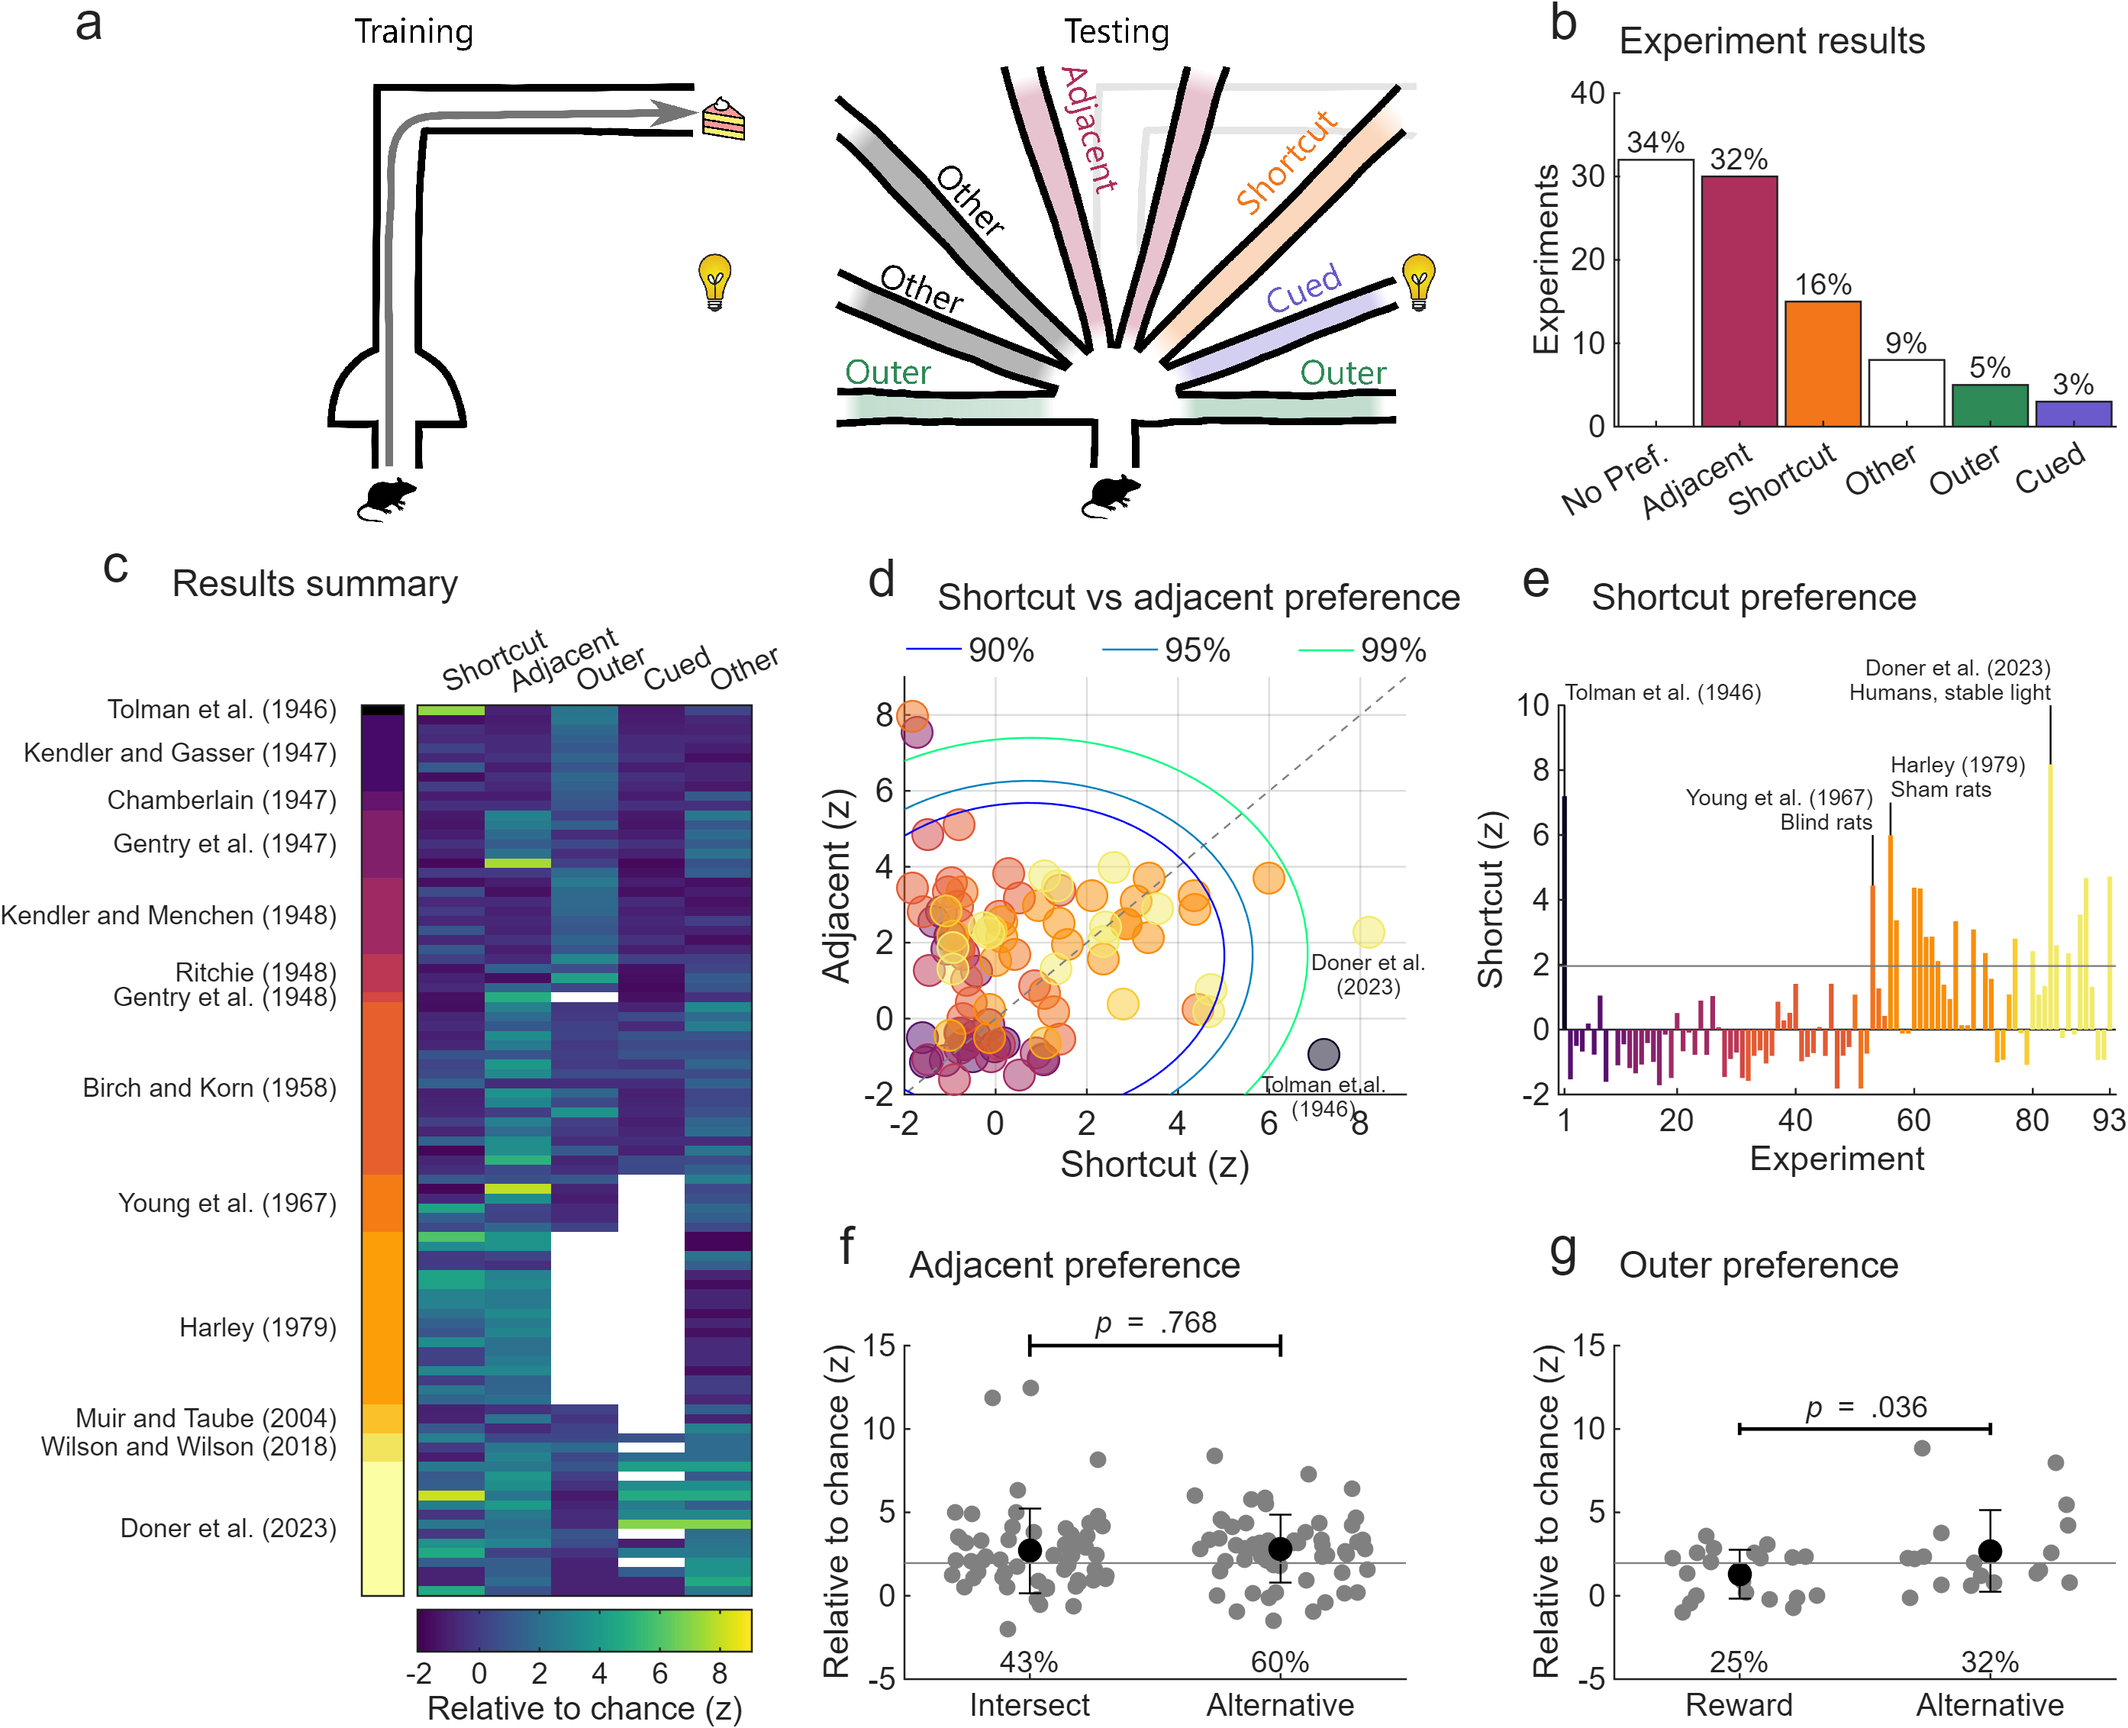
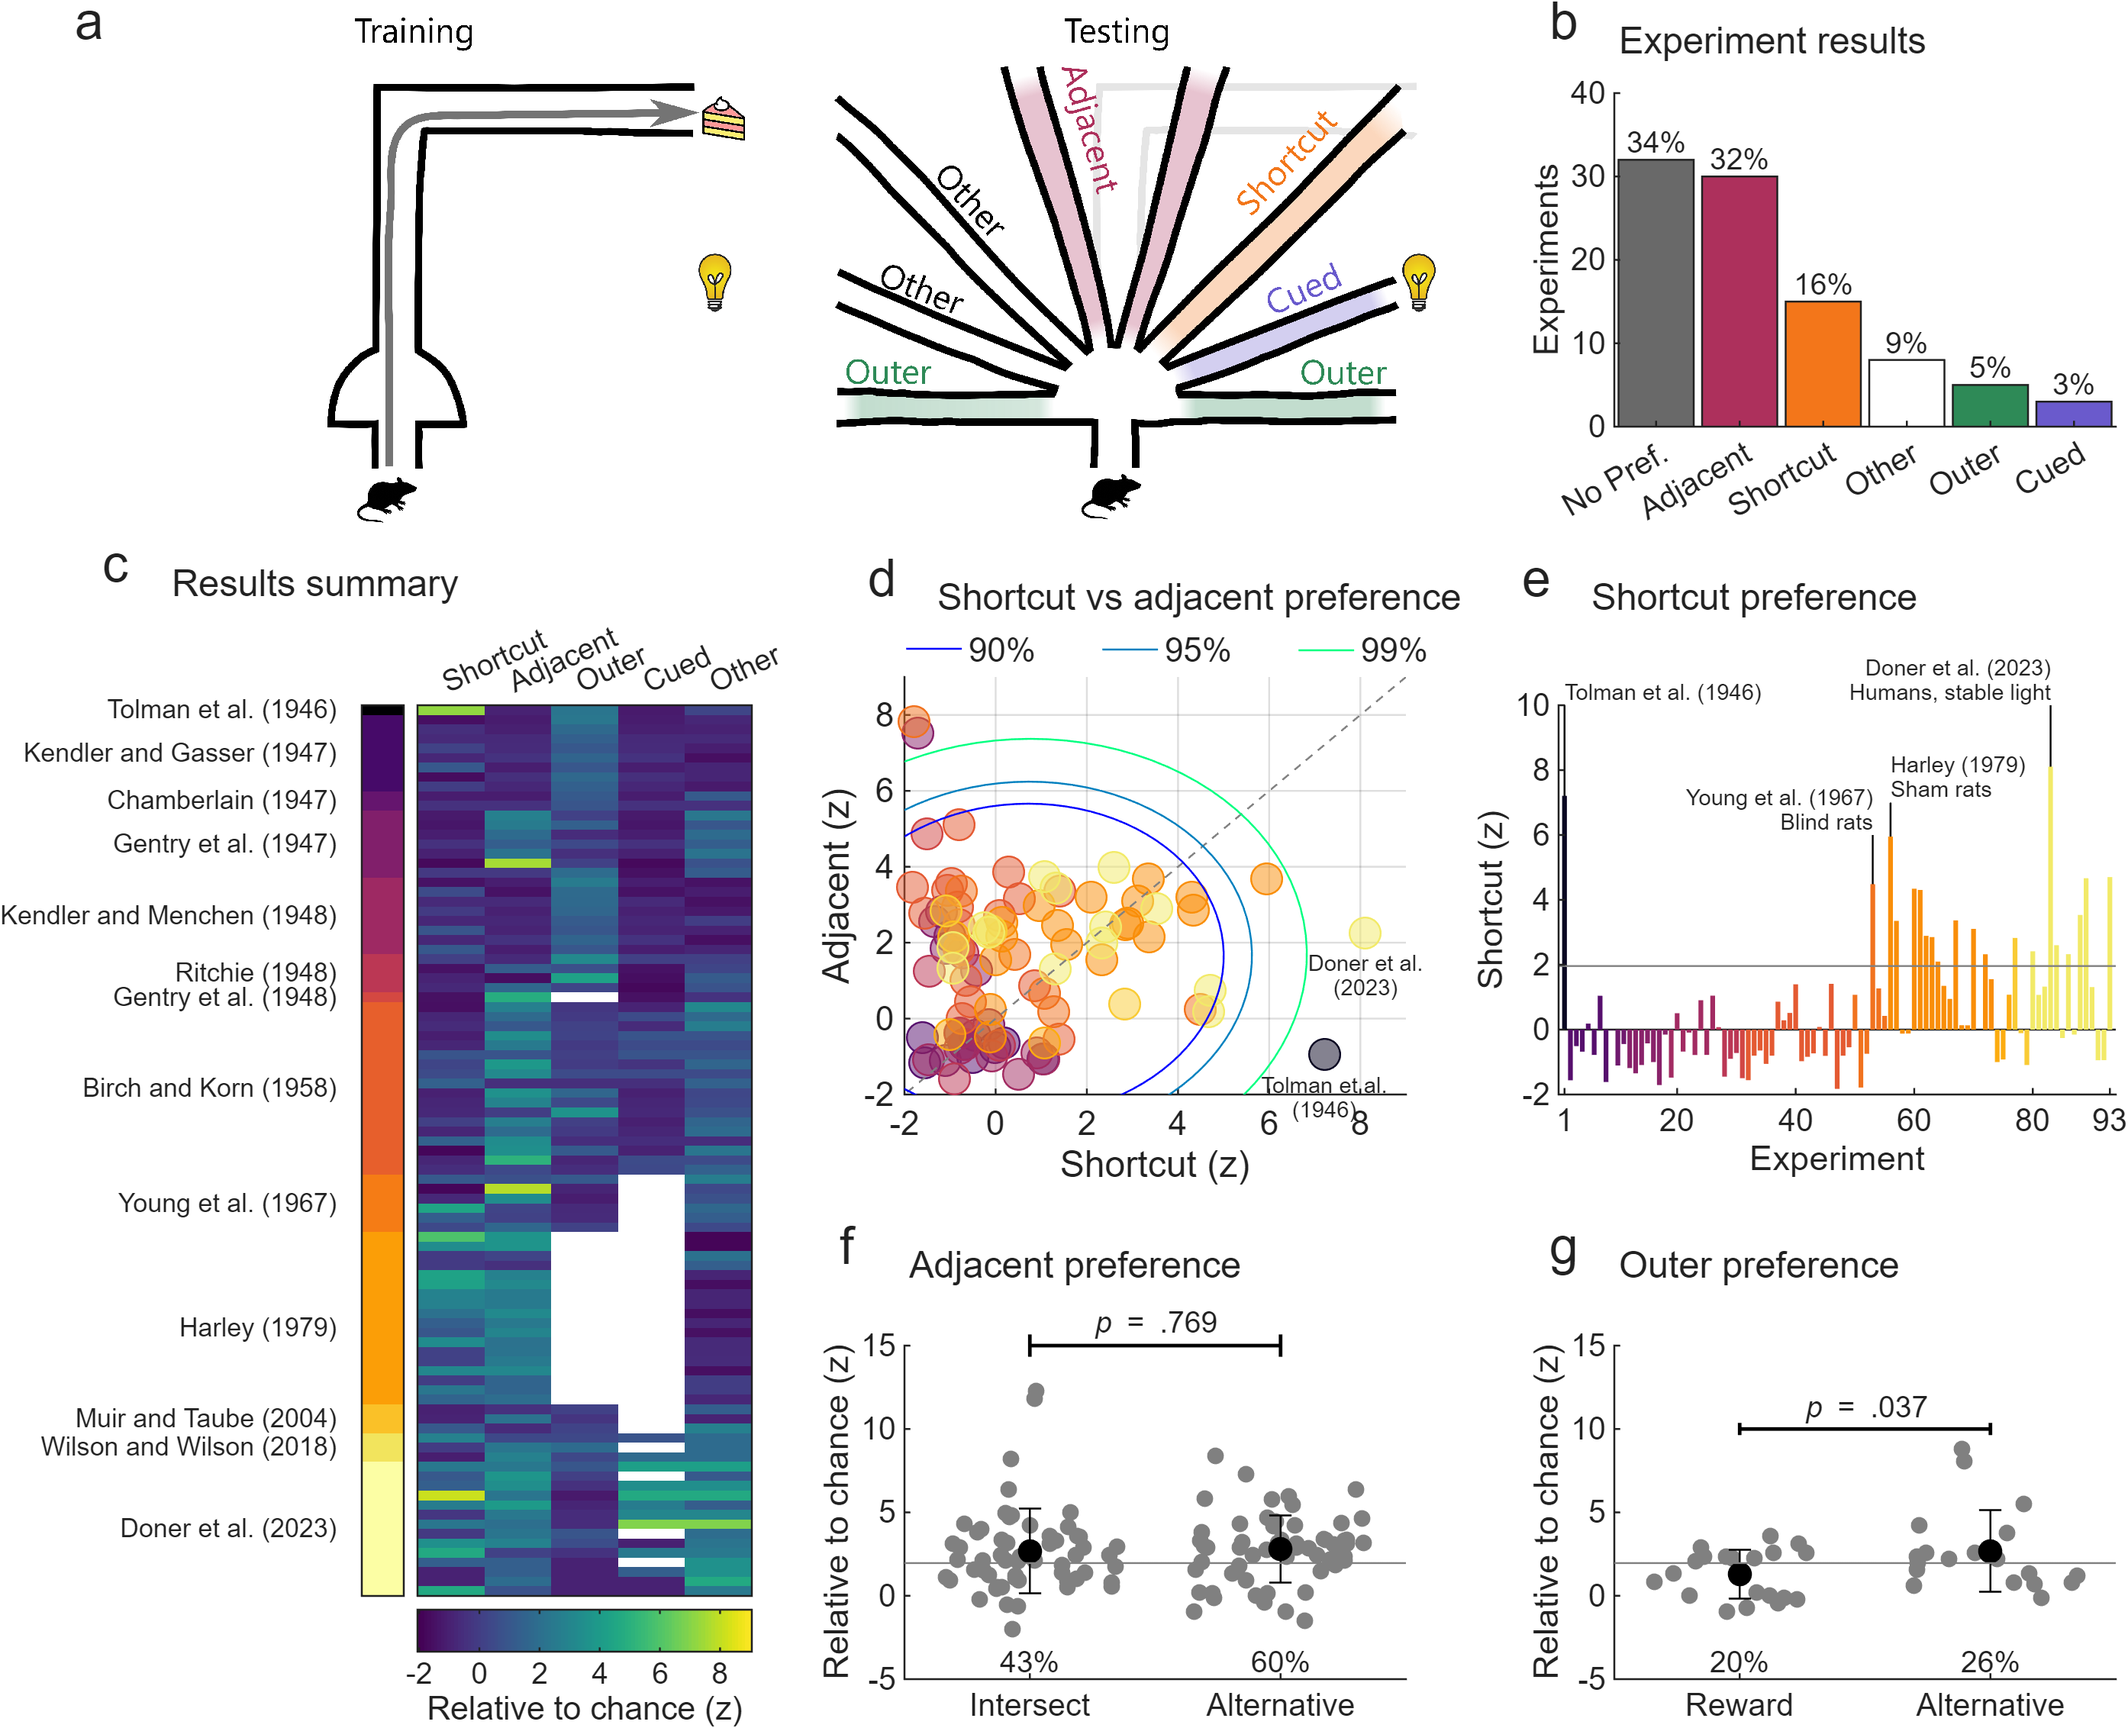
Updates

diff --git a/code/TOL_fig_dawson1972.m b/code/TOL_fig_dawson1972.m
@@ -35,10 +35,10 @@ function TOL_fig_gentry1948(config,params,dat)
     fs = [14 10];
 
     hbuff = 30;
-    vbuff = 195;
+    vbuff = 205;
     fsiz = 6;
     ytext = 'PDF';  
-    yl = 0.15;
+    yl = 0.2;
 
 %%%%%%%%%%%%%%%% Maze schematic 
     xnow = 30;
@@ -131,14 +131,13 @@ function TOL_fig_gentry1948(config,params,dat)
         ax.XTick = xi;
         xlabel('Path choices')
         ylabel(ytext)
-        ytickformat(ax,'%.1f')
-
+        ytickformat(ax,'%.2f')
 
 % keyboard
 %%%%%%%%%%%%%%%% Dawson (1972) Graph showing first test trial responses, trial 2
 % Final choices
-    xnow = 50;
-    ynow = ynow-vbuff;
+    xnow = xnow+ax.Position(3)+hbuff;
+    ynow = ynow;
     ax = axes('Units','pixels','Position',[xnow ynow 250 120]);
         ah = add_panel_title('c',sprintf('Dawson (1972)\nTrial 2 final choices'),'yoffset',0,'xoffset',0,'width',400,'fontsize',fs);
 
@@ -217,7 +216,7 @@ function TOL_fig_gentry1948(config,params,dat)
         text(light_positions,y,lnames,'HorizontalAlignment','center','VerticalAlignment','middle','FontSize',8,'Rotation',0,'Clipping','off');
 
         % use legendflex to add legend
-        [~,lh] = legendflex([p1,p2,p3,p4,px],{'Males','Females','Males+Estrogen','Females+Testosterone','Shortcut path','Adjacent paths'},'anchor',{'e','e'},'ncol',1,'box','off','buffer',[220 200],'xscale',.5,'fontsize',9,'ref',ax,'padding',[20 1 1]); 
+        [~,lh] = legendflex([p1,p2,p3,p4,px],{'Ctrl. Males','Ctrl. Females','Exp. Males','Exp. Females','Shortcut path','Adjacent paths'},'anchor',{'e','e'},'ncol',1,'box','off','buffer',[0 120],'xscale',.5,'fontsize',9,'ref',ax,'padding',[20 1 1]); 
         p = {params.short_color(1,:), params.shading_alpha; params.adjacent_color(1,:), params.shading_alpha};   
         i = 1;
         for jj = 1:length(lh)
@@ -236,14 +235,15 @@ function TOL_fig_gentry1948(config,params,dat)
         ax.XLim = [0.5 18.5];
         ax.XTick = xi;
         xlabel('Path choices')
-        ylabel(ytext)
-        ytickformat(ax,'%.1f')
+        % ylabel(ytext)
+        ytickformat(ax,'%.2f')
 
+% keyboard
 %%%%%%%%%%%%%%%% Dawson (1972) Graph showing first test trial responses, trial 2
 % Final choices
-    xnow = xnow+ax.Position(3)+hbuff;
-    ynow = ynow;
-    ax = axes('Units','pixels','Position',[xnow ynow 250 120]);
+    xnow = 50;
+    ynow = ynow-vbuff;
+    ax = axes('Units','pixels','Position',[xnow ynow 270 120]);
         ah = add_panel_title('d',sprintf('Dawson (1972)\nTrial 3 final choices'),'yoffset',0,'xoffset',0,'width',400,'fontsize',fs);
 
         % trial 1
@@ -327,8 +327,106 @@ function TOL_fig_gentry1948(config,params,dat)
         ax.XLim = [0.5 18.5];
         ax.XTick = xi;
         xlabel('Path choices')
+        ylabel(ytext)
+        ytickformat(ax,'%.2f')
+
+%%%%%%%%%%%%%%%% Michik (1973) Graph showing first test trial responses
+% Final choices
+    xnow = xnow+ax.Position(3)+hbuff;
+    ynow = ynow;
+    ax = axes('Units','pixels','Position',[xnow ynow 270 120]);
+        ah = add_panel_title('e',sprintf('Michik (1973)\nTrial 1 final choices'),'yoffset',0,'xoffset',0,'width',400,'fontsize',fs);
+
+        % trial 1
+        % control males
+        m1 = 6.2; % mean path chosen (1-18, 5 was shortcut, 9.5 was training)
+        s1 = 3.048; % standard deviation
+        n1 = 9; % N of animals
+        % control females
+        m2 = 9.8; % mean path chosen (1-18, 5 was shortcut, 9.5 was training)
+        s2 = 3.642; % standard deviation
+        n2 = 4; % N of animals
+        % experimental males
+        m3 = 9.7; % mean path chosen (1-18, 5 was shortcut, 9.5 was training)
+        s3 = 3.467; % standard deviation
+        n3 = 10; % N of animals
+        % experimental females
+        m4 = 12.1; % mean path chosen (1-18, 5 was shortcut, 9.5 was training)
+        s4 = 2.441; % standard deviation
+        n4 = 10; % N of animals
+
+        xi = 1:18;
+        y1 = normpdf(xi,m1,s1);
+        y2 = normpdf(xi,m2,s2);
+        y3 = normpdf(xi,m3,s3);
+        y4 = normpdf(xi,m4,s4);        
+        % y1 = y1 ./ max(y1,[],"all",'omitmissing');
+        % y2 = y2 ./ max(y2,[],"all",'omitmissing');
+        % y3 = y3 ./ max(y3,[],"all",'omitmissing');
+
+        % Shortcut and adjacent shading
+        % adjacent path shading
+        adj = [9 10];
+        x = [];
+        y = [];
+        for aa = 1:length(adj)
+            a = adj(aa)-0.5;
+            b = adj(aa)+0.5;
+            x = [x a a b b a];
+            y = [y 0 100 100 0 0];
+        end
+        p2 = patch(ax,x,y,'k','FaceColor',params.adjacent_color,'EdgeColor','none','FaceAlpha',params.shading_alpha); hold on;
+    
+        % shortcut shading
+        shrt = [6];
+        x = [];
+        y = [];    
+        for aa = 1:length(shrt)
+            a = shrt(aa)-0.5;
+            b = shrt(aa)+0.5;
+            x = [x a a b b a];
+            y = [y 0 100 100 0 0];        
+        end
+        p1 = patch(ax,x,y,'k','FaceColor',params.short_color,'EdgeColor','none','FaceAlpha',params.shading_alpha); hold on;    
+        px = [p1 p2];
+
+        % plot data
+        p1 = plot(xi,y1,"Color",params.c1,"LineStyle","-",'Marker','none','LineWidth',1.5); hold on; % control males
+        p2 = plot(xi,y2,"Color",params.c2,"LineStyle","-",'Marker','none','LineWidth',1.5); % control females
+        p3 = plot(xi,y3,"Color",params.c3,"LineStyle","-",'Marker','none','LineWidth',1.5); % estrogen males
+        p4 = plot(xi,y4,"Color",params.c4,"LineStyle","-",'Marker','none','LineWidth',1.5); % estrogen males
+
+        ax.YLim = [0 yl];        
+        yv = 0;
+        plot(m1,yv,"Color",params.c1,'Marker','v','MarkerFaceColor',params.c1);
+        plot(m2,yv,"Color",params.c2,'Marker','v','MarkerFaceColor',params.c2);
+        plot(m3,yv,"Color",params.c3,'Marker','v','MarkerFaceColor',params.c3);
+        plot(m4,yv,"Color",params.c3,'Marker','v','MarkerFaceColor',params.c4);
+        
+        % plot light sources
+        light_positions = [5];
+        lnames = {'L'};
+        y = ones(size(light_positions)) .* ax.YLim(2) .* 0.95;
+        scatter(light_positions,y,150,"yellow","filled",'s','MarkerEdgeColor','k','Clipping','off');        
+        text(light_positions,y,lnames,'HorizontalAlignment','center','VerticalAlignment','middle','FontSize',8,'Rotation',0,'Clipping','off');
+
+        % % use legendflex to add legend
+        % [~,lh] = legendflex([p1,p2,p3,px],{'Males','Females','Males+Estrogen','Shortcut path','Adjacent paths'},'anchor',{'e','e'},'ncol',1,'box','off','buffer',[120 10],'xscale',.5,'fontsize',9,'ref',ax,'padding',[20 1 1]); 
+        % p = {params.short_color(1,:), params.shading_alpha; params.adjacent_color(1,:), params.shading_alpha};   
+        % i = 1;
+        % for jj = 1:length(lh)
+        %     if strcmp(lh(jj).Type,'patch')
+        %         lh(jj).FaceColor = p{i,1};
+        %         lh(jj).FaceAlpha = p{i,2};
+        %         i = i+1;
+        %     end
+        % end 
+        ax.XDir = 'reverse';
+        ax.XLim = [0.5 18.5];
+        ax.XTick = xi;
+        xlabel('Path choices')
         % ylabel(ytext)
-        ytickformat(ax,'%.1f')
+        ytickformat(ax,'%.2f')
 
 % return
 %% >>>>>>>>>> Save the overall figure

diff --git a/code/TOL_main.m b/code/TOL_main.m
@@ -99,13 +99,13 @@ function TOL_main
     plot_opts.plot_gentry1947       = 0; % TOL_fig_gentry1947   % Fig S1 Gentry et al. (1947) & Birch and Korn (1958)
     plot_opts.plot_dawson1972       = 0; % TOL_fig_dawson1972   % Fig S2 Dawson (1972)    
     plot_opts.plot_harley1979       = 0; % TOL_fig_harley1979   % Fig S3 Harley (1979)
-    plot_opts.plot_wilson2018       = 0; % TOL_fig_wilson2018   % Fig S4 Wilson and Wilson (2018) & Doner et al. (2023)
+    plot_opts.plot_wilson2018       = 1; % TOL_fig_wilson2018   % Fig S4 Wilson and Wilson (2018) & Doner et al. (2023)
     plot_opts.plot_young1967        = 0; % TOL_fig_young1967    % Fig S5 Young et al. (1967)
     plot_opts.plot_ritchie1948      = 0; % TOL_fig_ritchie1948  % Fig S6 Ritchie (1948)
     plot_opts.plot_kendler1947      = 0; % TOL_fig_kendler1947  % Fig S7 Kendler et al. (1947; 1948)
     plot_opts.plot_gentry1948       = 0; % TOL_fig_gentry1948   % Fig S8 Gentry et al. (1948) 
     plot_opts.plot_muir2004         = 0; % TOL_fig_muir2004     % Fig S9 Muir and Taube (2004)
-    plot_opts.plot_tryon1929        = 1; % TOL_fig_tryon1929    % Fig S10 Tolman, Tryon and Jeffress (1929)
+    plot_opts.plot_tryon1929        = 0; % TOL_fig_tryon1929    % Fig S10 Tolman, Tryon and Jeffress (1929)
 
 %%%%%%%%%%%%%%%%%%%%%%%%%%%%%%%% FUNCTION BODY
 %%%%%%%%%%%%%%%% Tolman et al. (1946) 

diff --git a/code/TOL_fig_stats1.m b/code/TOL_fig_stats1.m
@@ -583,7 +583,7 @@ function TOL_fig_stats1(config,params,dat)
 
         b = bar(x,y,0.9,'k');
         b.FaceColor = 'flat';
-        cols = [params.short_color;params.adjacent_color;params.outer_color;params.light_color;rgb('White');rgb('White')];
+        cols = [params.short_color;params.adjacent_color;params.outer_color;params.light_color;rgb('White');rgb('DimGray')];
         b.CData = cols(i,:);
 
         % additional axis settings
@@ -598,6 +598,7 @@ function TOL_fig_stats1(config,params,dat)
             text(ii,y(ii),sprintf('%.f%%',yp(ii)),'FontSize',8,'HorizontalAlignment','center','VerticalAlignment','bottom');
         end
 % keyboard
+
 %%%%%%%%%%%%%%%% Adjacent path preference
     % xnow = ax2c.Position(1)+ax2c.Position(3)+50;
     xnow = ax2c.Position(1);

diff --git a/code/TOL_fig_kendler1947.m b/code/TOL_fig_kendler1947.m
@@ -170,7 +170,7 @@ function TOL_fig_kendler1947(config,params,dat)
         scatter(light_positions,y,150,"yellow","filled",'s','MarkerEdgeColor','k','Clipping','off');        
         text(light_positions,y,lnames,'HorizontalAlignment','center','VerticalAlignment','middle','FontSize',8,'Rotation',0,'Clipping','off');
 
-% return
+return
 %% >>>>>>>>>> Save the overall figure
     if config.save_fig
         fname = [config.fig_dir '\' config.fig_name]; 

diff --git a/code/TOL_fig_muir2004.m b/code/TOL_fig_muir2004.m
@@ -114,7 +114,7 @@ function TOL_fig_muir2004(config,params,dat)
         box off
         ax3.XLim = [0.5 length(gs)+0.5];
         ax3.YLim = ax2.YLim;
-
+% return
 %% >>>>>>>>>> Save the overall figure
     if config.save_fig
         fname = [config.fig_dir '\' config.fig_name]; 

diff --git a/code/TOL_fig_wilson2018.m b/code/TOL_fig_wilson2018.m
@@ -173,6 +173,7 @@ function TOL_fig_wilson2018(config,params,dat)
             end
         end 
 
+        return
 %% >>>>>>>>>> Save the overall figure
     if config.save_fig
         fname = [config.fig_dir '\' config.fig_name]; 

diff --git a/code/TOL_fig_young1967.m b/code/TOL_fig_young1967.m
@@ -131,6 +131,7 @@ function TOL_fig_young1967(config,params,dat)
             end
         end 
 
+return
 %% >>>>>>>>>> Save the overall figure
     if config.save_fig
         fname = [config.fig_dir '\' config.fig_name]; 
